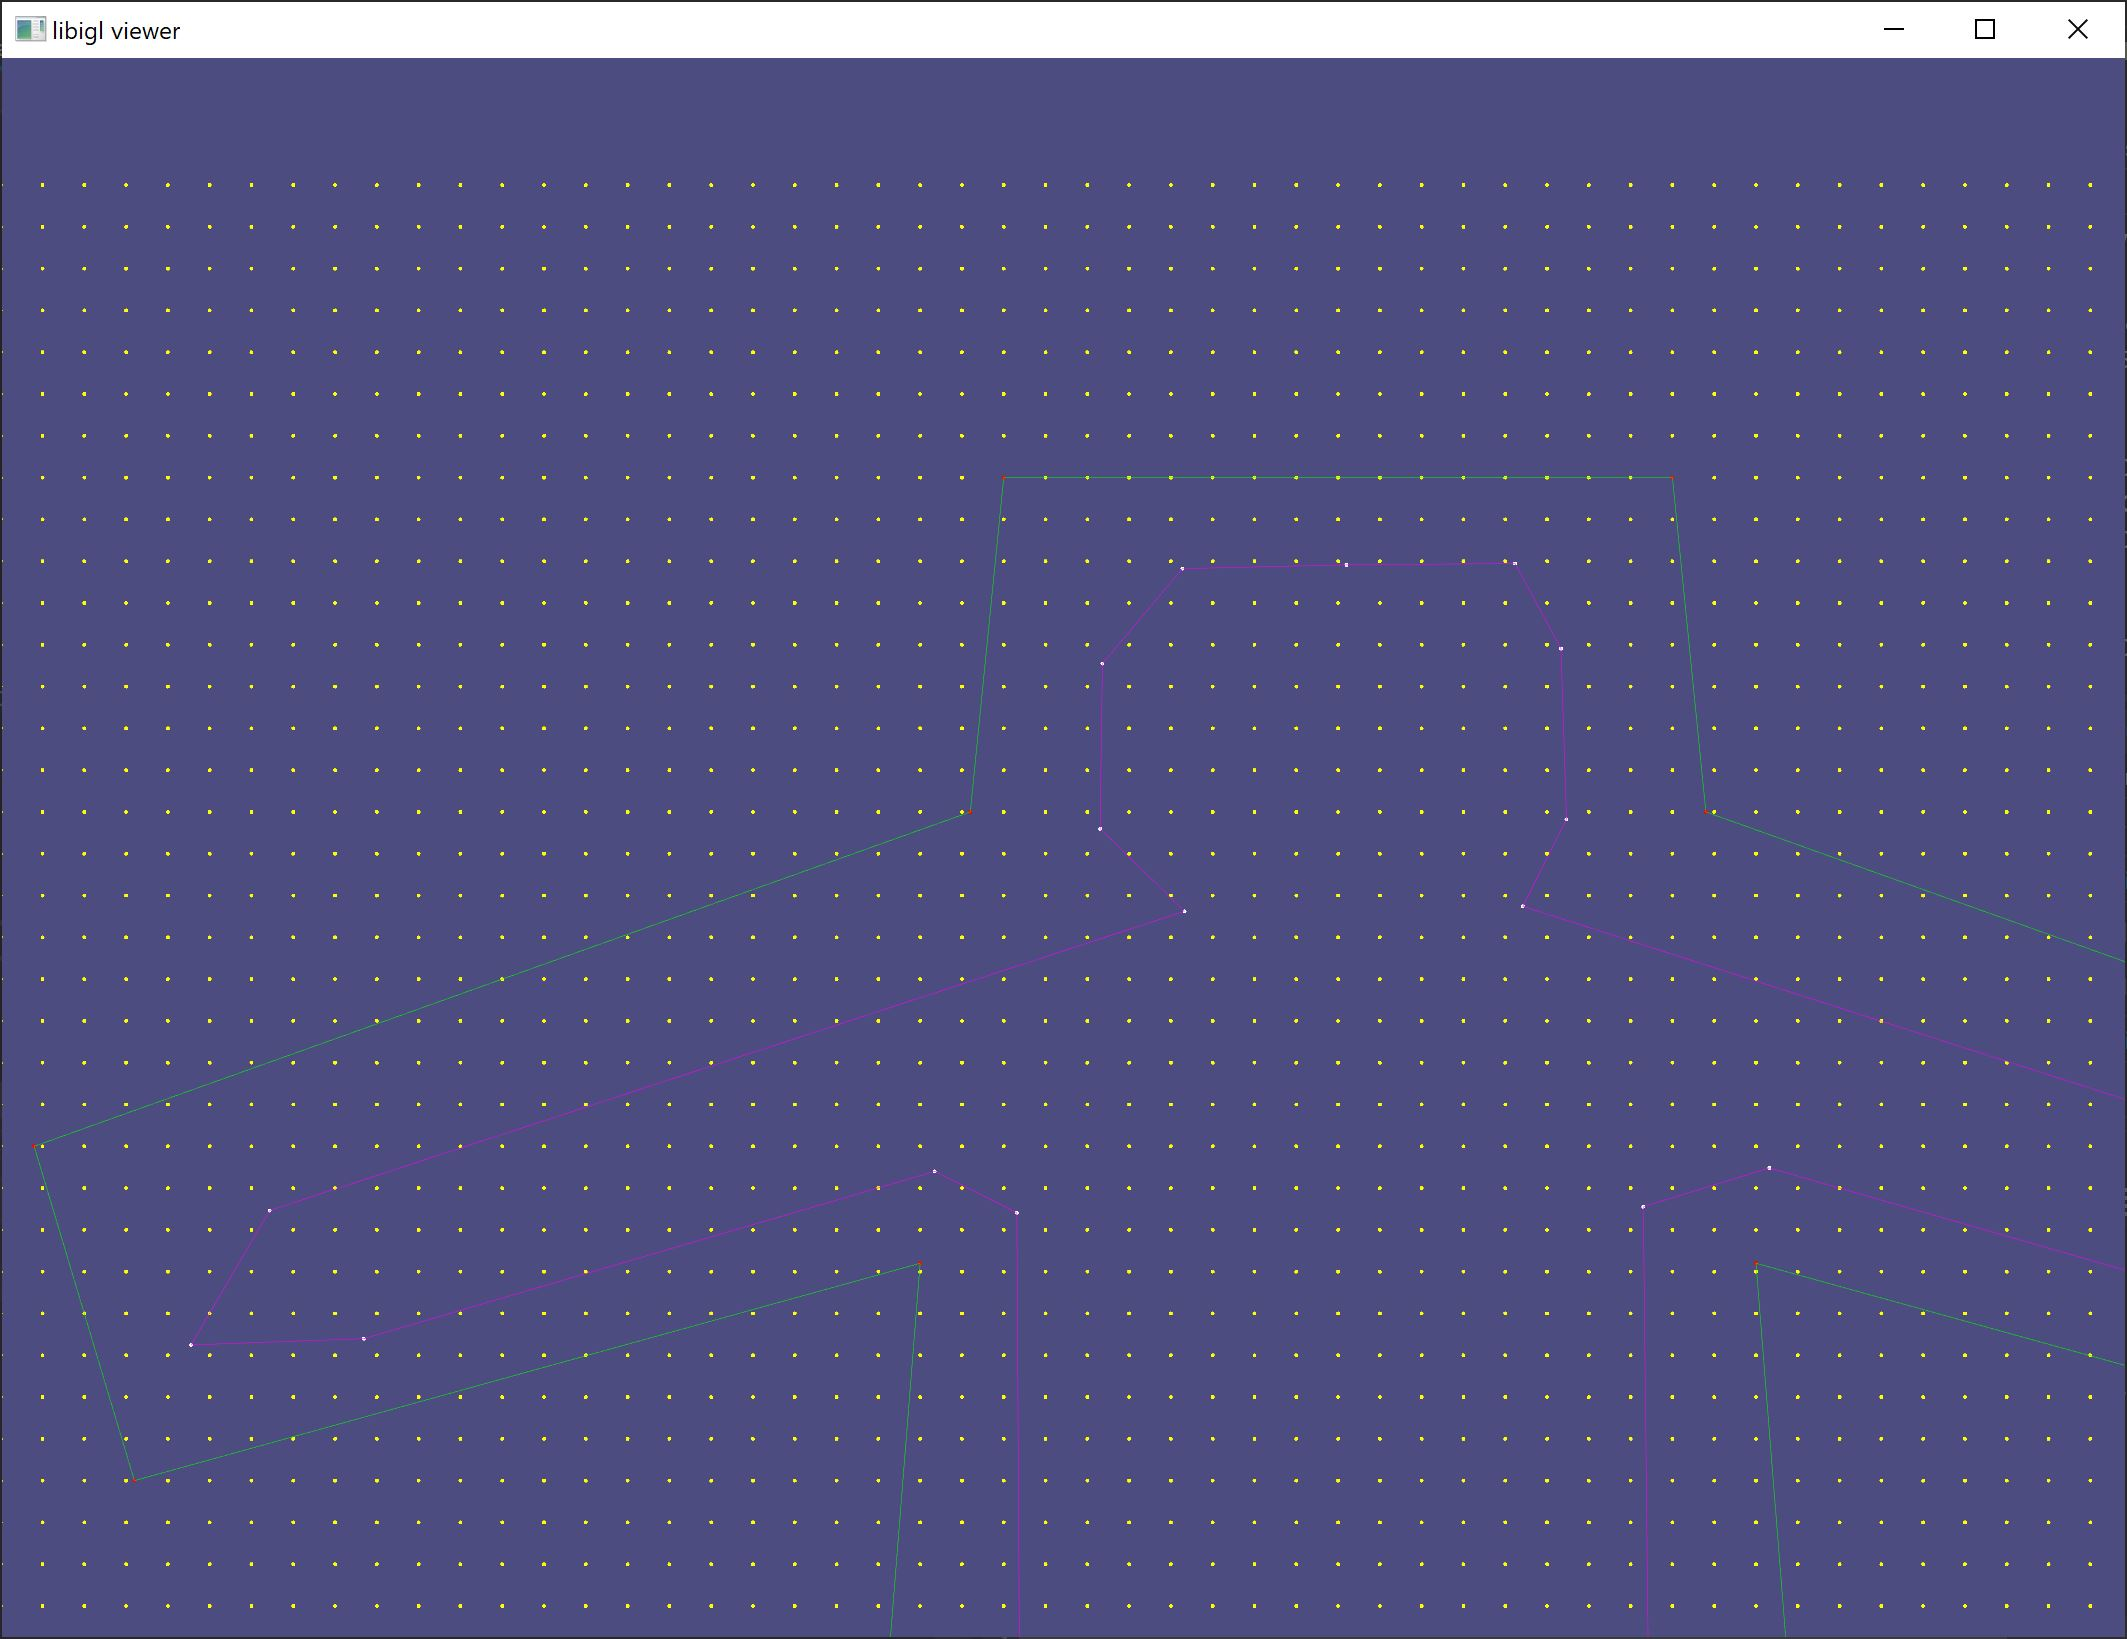
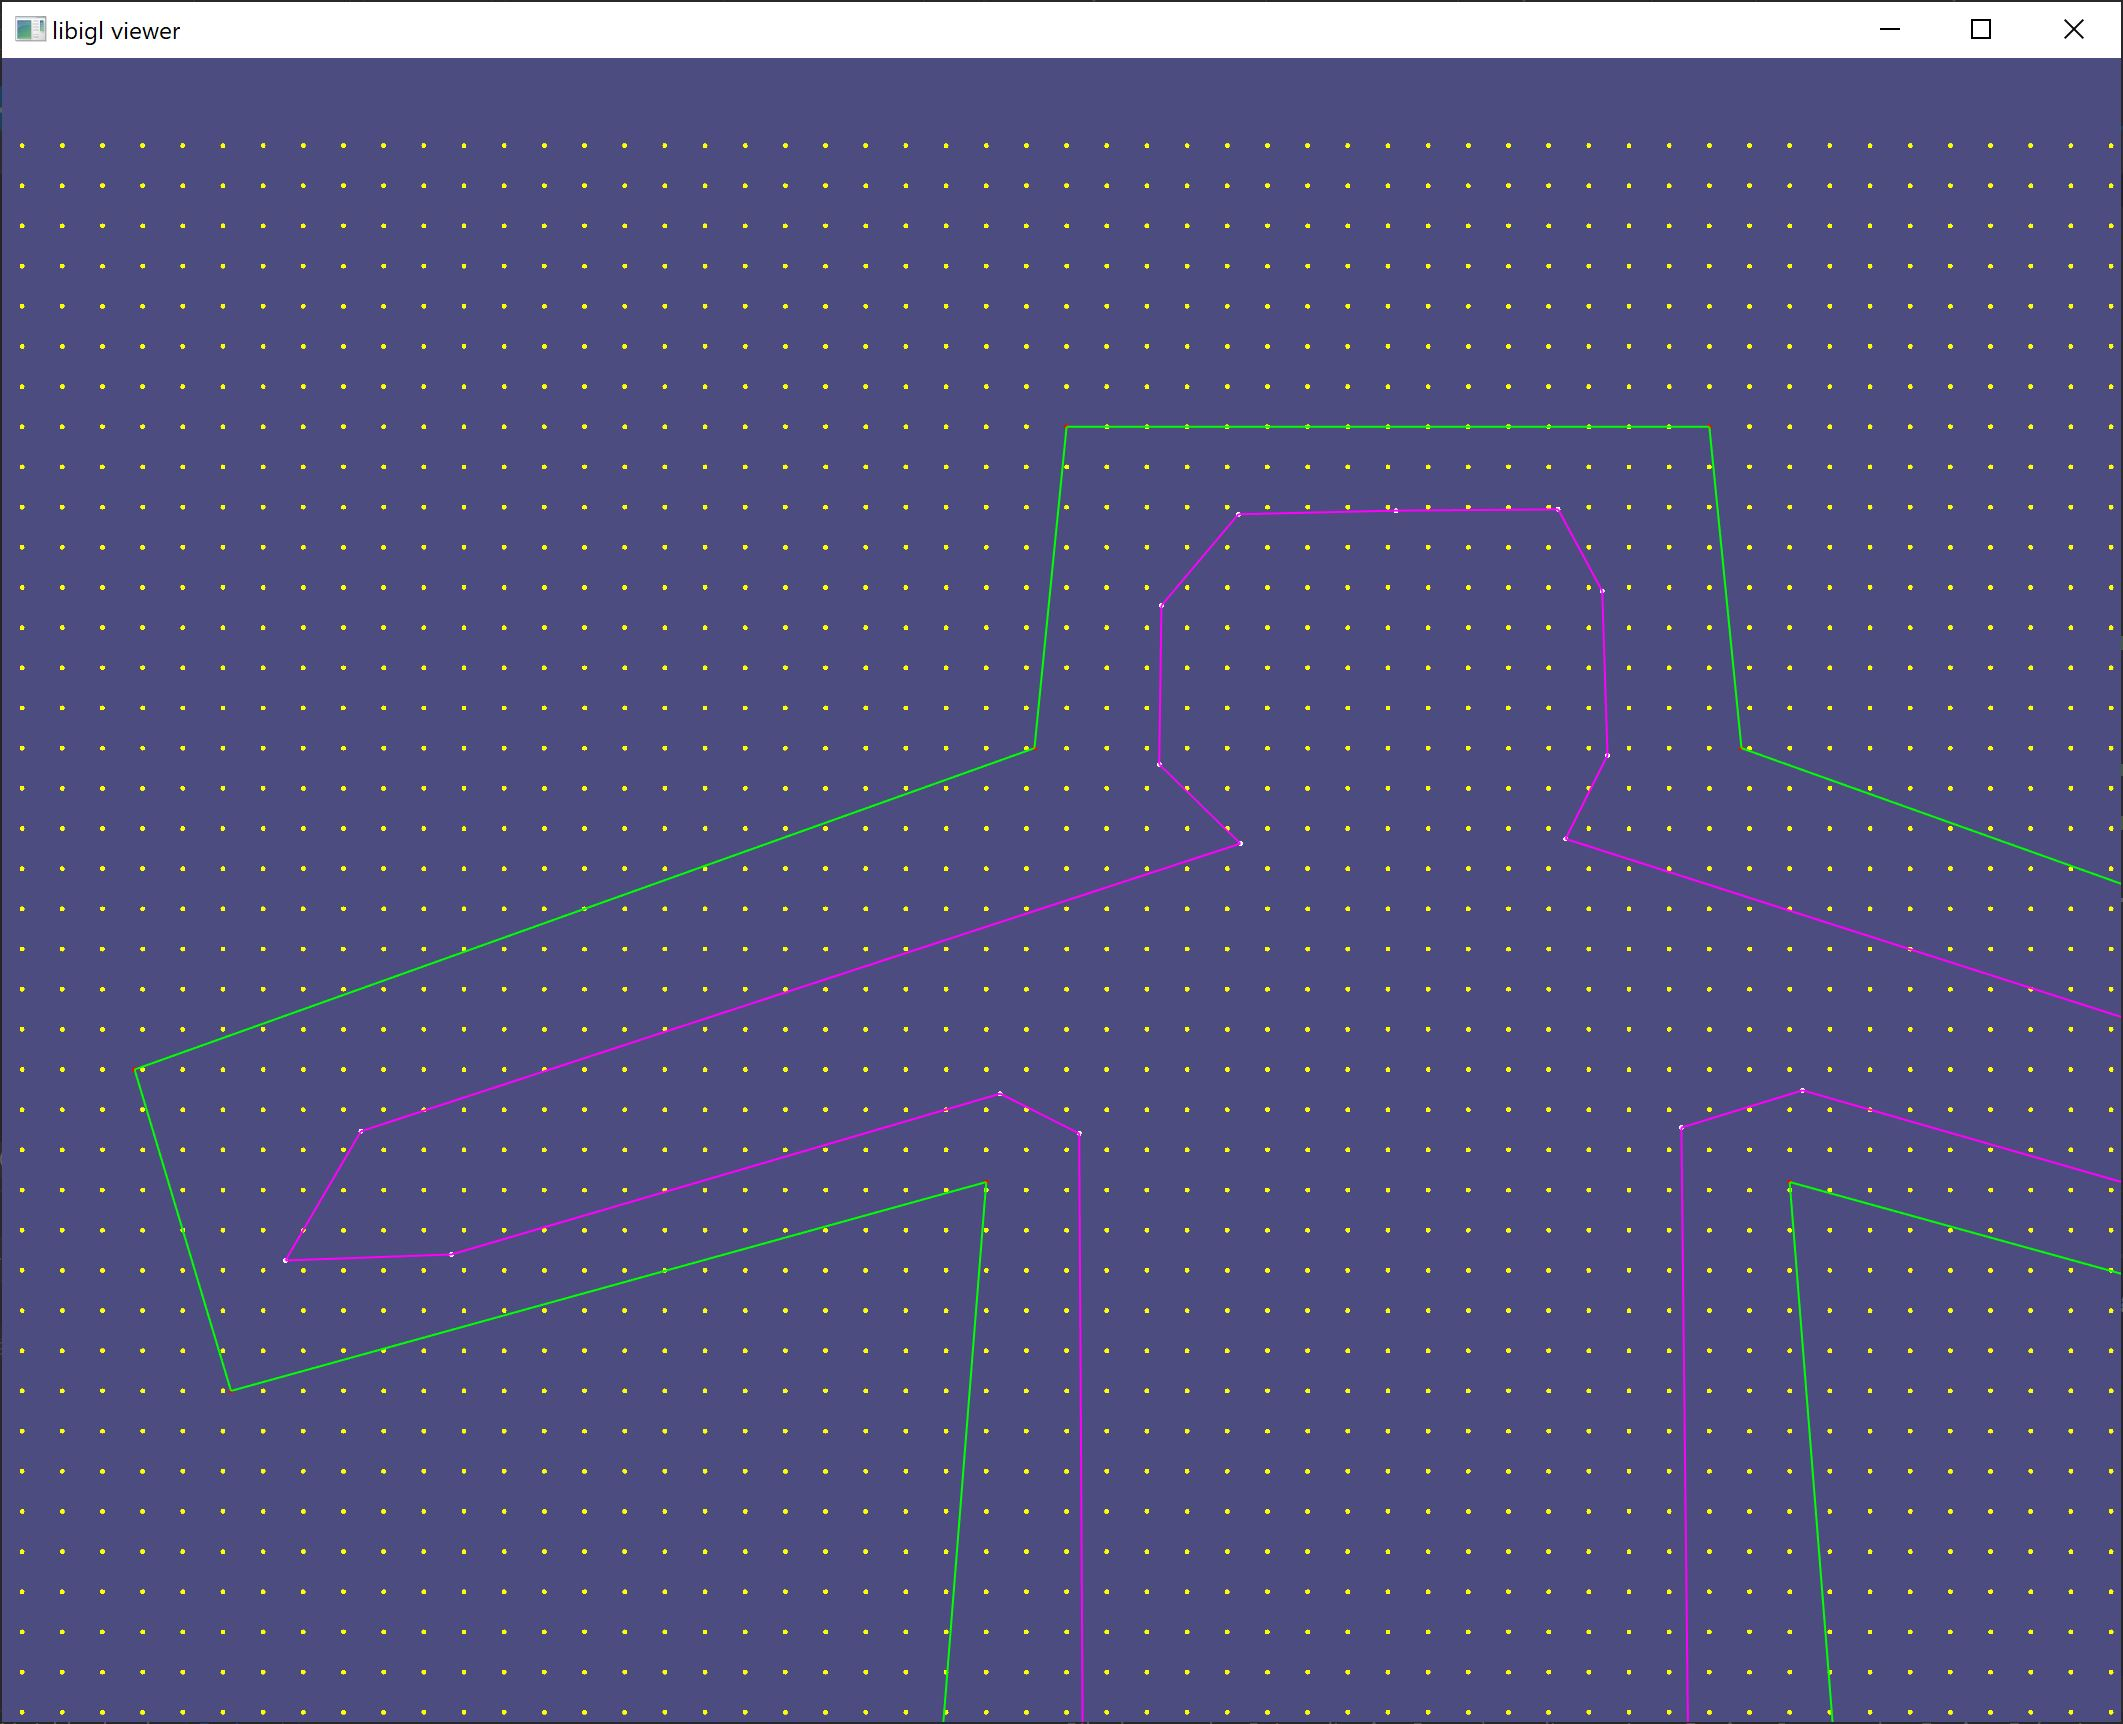
update commands

diff --git a/main.cpp b/main.cpp
@@ -663,7 +663,9 @@ void refreshViewer() {
     viewer.data().add_points(GridVertices, RowVector3d(50, 50, 0));
 
 
-    viewer.data().point_size = 4; //SIZE or vertices in the viewer (circle size)
+    //viewer.data().point_size = 4; //SIZE or vertices in the viewer (circle size)
+    viewer.data().point_size = 5;
+    viewer.data().line_width = 2;
     viewer.data().show_custom_labels = true;
 }
 
@@ -673,14 +675,14 @@ void refreshViewer() {
 bool key_down(igl::opengl::glfw::Viewer &viewer, unsigned char key, int modifier)
 {
     cout << "pressed Key: " << key << " " << (unsigned int)key << std::endl;
-    if (key == '1')
+    if (key == 'F')
     {
         Cage(vertex_count,0) -= 1;
         //createBiggerHumanModel(Model);
         cout << Cage(vertex_count, 0) << endl;
         refreshViewer();
     }
-    if (key == '2')
+    if (key == 'H')
     {
         Cage(vertex_count,0) += 1;
         //createBiggerHumanModel(Model);
@@ -688,14 +690,14 @@ bool key_down(igl::opengl::glfw::Viewer &viewer, unsigned char key, int modifier
         refreshViewer();
     }
 
-    if (key == '3')
+    if (key == 'G')
     {
         Cage(vertex_count,1) -= 1;
         //createBiggerHumanModel(Model);
         cout << Cage(vertex_count, 1) << endl;
         refreshViewer();
     }
-    if (key == '4')
+    if (key == 'T')
     {
         Cage(vertex_count,1) += 1;
         //createBiggerHumanModel(Model);
@@ -712,19 +714,19 @@ bool key_down(igl::opengl::glfw::Viewer &viewer, unsigned char key, int modifier
         vertex_count--;
     }
 
-    if (key == 'A') {
+    if (key == '1') {
         // move left leg down
         createBiggerHumanCage_pos1(Cage);
         refreshViewer();
     }
 
-    if (key == 'B') {
+    if (key == '2') {
         // move left leg up
         createBiggerHumanCage_pos2(Cage);
         refreshViewer();
     }
 
-    if (key == 'H') {
+    if (key == '3') {
         // move head up left
         createBiggerHumanCage_head(Cage);
         refreshViewer();
